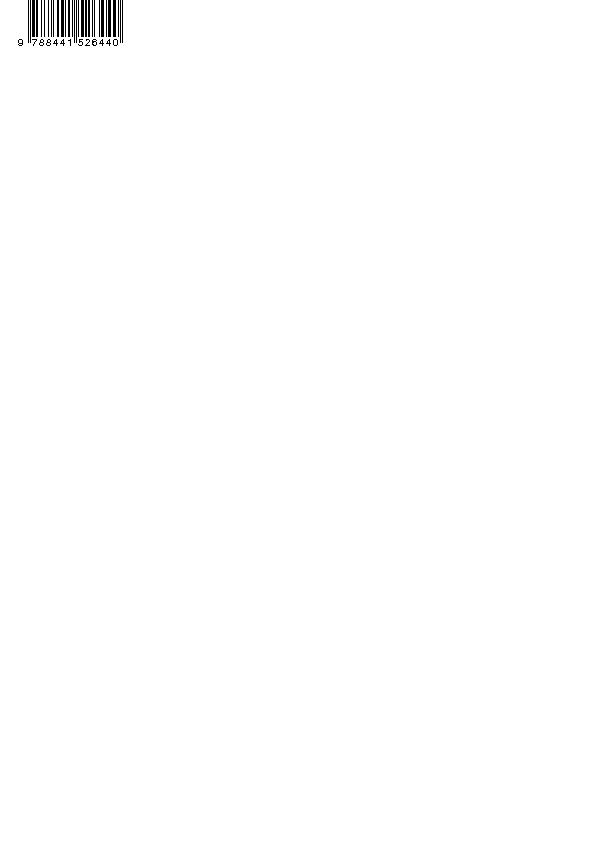
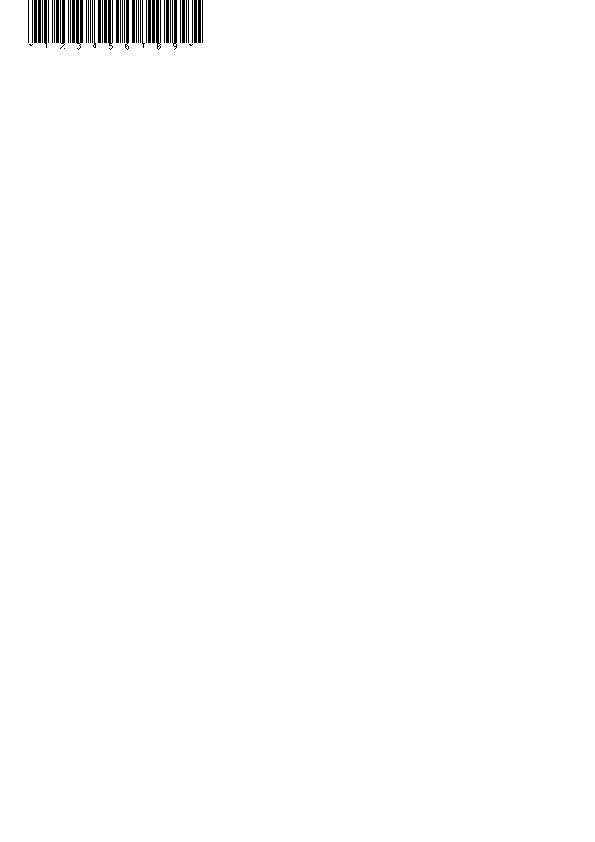
Ajustamos los campos del pdf de la os

Changed region(s): [[0.0303, 0.0, 0.363, 0.0618]]

diff --git a/app/pdfs/orden_servicio_pdf.rb b/app/pdfs/orden_servicio_pdf.rb
@@ -9,25 +9,26 @@ class OrdenServicioPdf < Prawn::Document
   end
   
   def orden_servicio_reporte
-    text "Orden de Servicio", size: 14, style: :bold, align: :center   
-    text "Id\: #{@orden_servicio.id}", size: 14, style: :bold
-    text "Folio\: #{@orden_servicio.folio}", size: 14, style: :bold
-    text "Fecha recepcion\: #{@orden_servicio.fecha_recepcion}", size: 14, style: :bold
-    text "Fecha entrega\: #{@orden_servicio.fecha_entrega}", size: 14, style: :bold    
-    text "Activo\: #{@orden_servicio.activo.descripcion}", size: 14, style: :bold
-    text "Series\: #{@orden_servicio.series.nombre}", size: 14, style: :bold               
-    text "Código de barras:", size: 14, style: :bold
+    text "Orden de Servicio", size: 11, style: :bold, align: :center, font: :arial  
+    text "Id\: #{@orden_servicio.id}", size: 11, style: :bold
+    text "Folio\: #{@orden_servicio.folio}", size: 11, style: :bold
+    text "Fecha recepcion\: #{@orden_servicio.fecha_recepcion}", size: 11, style: :bold
+    text "Fecha entrega\: #{@orden_servicio.fecha_entrega}", size: 11, style: :bold    
+    text "Activo\: #{@orden_servicio.activo.descripcion}", size: 11, style: :bold
+    text "Series\: #{@orden_servicio.series.nombre}", size: 11, style: :bold 
+    text "Descripción\: #{@orden_servicio.descripcion}", size: 11, style: :bold, font: :arial              
+    text "Código de barras:", size: 11, style: :bold
     doc=RGhost::Document.new
-    doc.barcode_ean13("#{@orden_servicio.activo.codigo}",:columns => 2, :rows=> 2, :text => {:size => 10})
+    doc.barcode_code39("#{@orden_servicio.activo.codigo}",:columns => 2, :rows=> 2, :text => {:size => 10})
     doc.render :jpeg, :filename => "#{Rails.root}/app/assets/images/barcodes/barcode.jpeg"                          
-    image "#{Rails.root}/app/assets/images/barcodes/barcode.jpeg" , :at => [50,570], :width => 500
+    image "#{Rails.root}/app/assets/images/barcodes/barcode.jpeg" , :at => [100,580], :width => 500
     text ""
     text ""
     text ""
-    text "Imagen:", size: 14, style: :bold
+    text "Imagen:", size: 11, style: :bold
     if @orden_servicio.activo.imagen_url?
       if File.exist?("#{@orden_servicio.activo.imagen_url}")
-        image "#{@orden_servicio.activo.imagen_url}" , :at => [50,570], :width => 50
+        image "#{@orden_servicio.activo.imagen_url}" , :at => [300,580], :width => 160
       else
         text "No existe la imagen"
       end
@@ -38,7 +39,7 @@ class OrdenServicioPdf < Prawn::Document
   end  
   
   def fallas_rows  
-    text "Fallas", size: 14, style: :bold, align: :center           
+    text "Fallas", size: 11, style: :bold, align: :left           
     [["Descripcion"]] +  
     @orden_servicio.falla.map do |item|
       [item.descripcion]
@@ -57,7 +58,7 @@ class OrdenServicioPdf < Prawn::Document
   end   
   
   def reparaciones_rows  
-    text "Reparaciones", size: 14, style: :bold, align: :center           
+    text "Reparaciones", size: 11, style: :bold, align: :left           
     [["Descripcion"]] +  
     @orden_servicio.reparacion.map do |item|
       [item.descripcion]

diff --git a/app/controllers/ordenes_servicios_controller.rb b/app/controllers/ordenes_servicios_controller.rb
@@ -7,6 +7,12 @@ class OrdenesServiciosController < ApplicationController
     respond_to do |format|
       format.html # index.html.erb
       format.json { render json: @ordenes_servicios }
+      format.pdf do
+        pdf = OrdenesServicioPdf.new(@ordenes_servicios, view_context)
+        send_data pdf.render, filename: "orden_servicio.pdf",
+                              type: "application/pdf",
+                              disposition: "inline"
+      end
     end
   end
 
